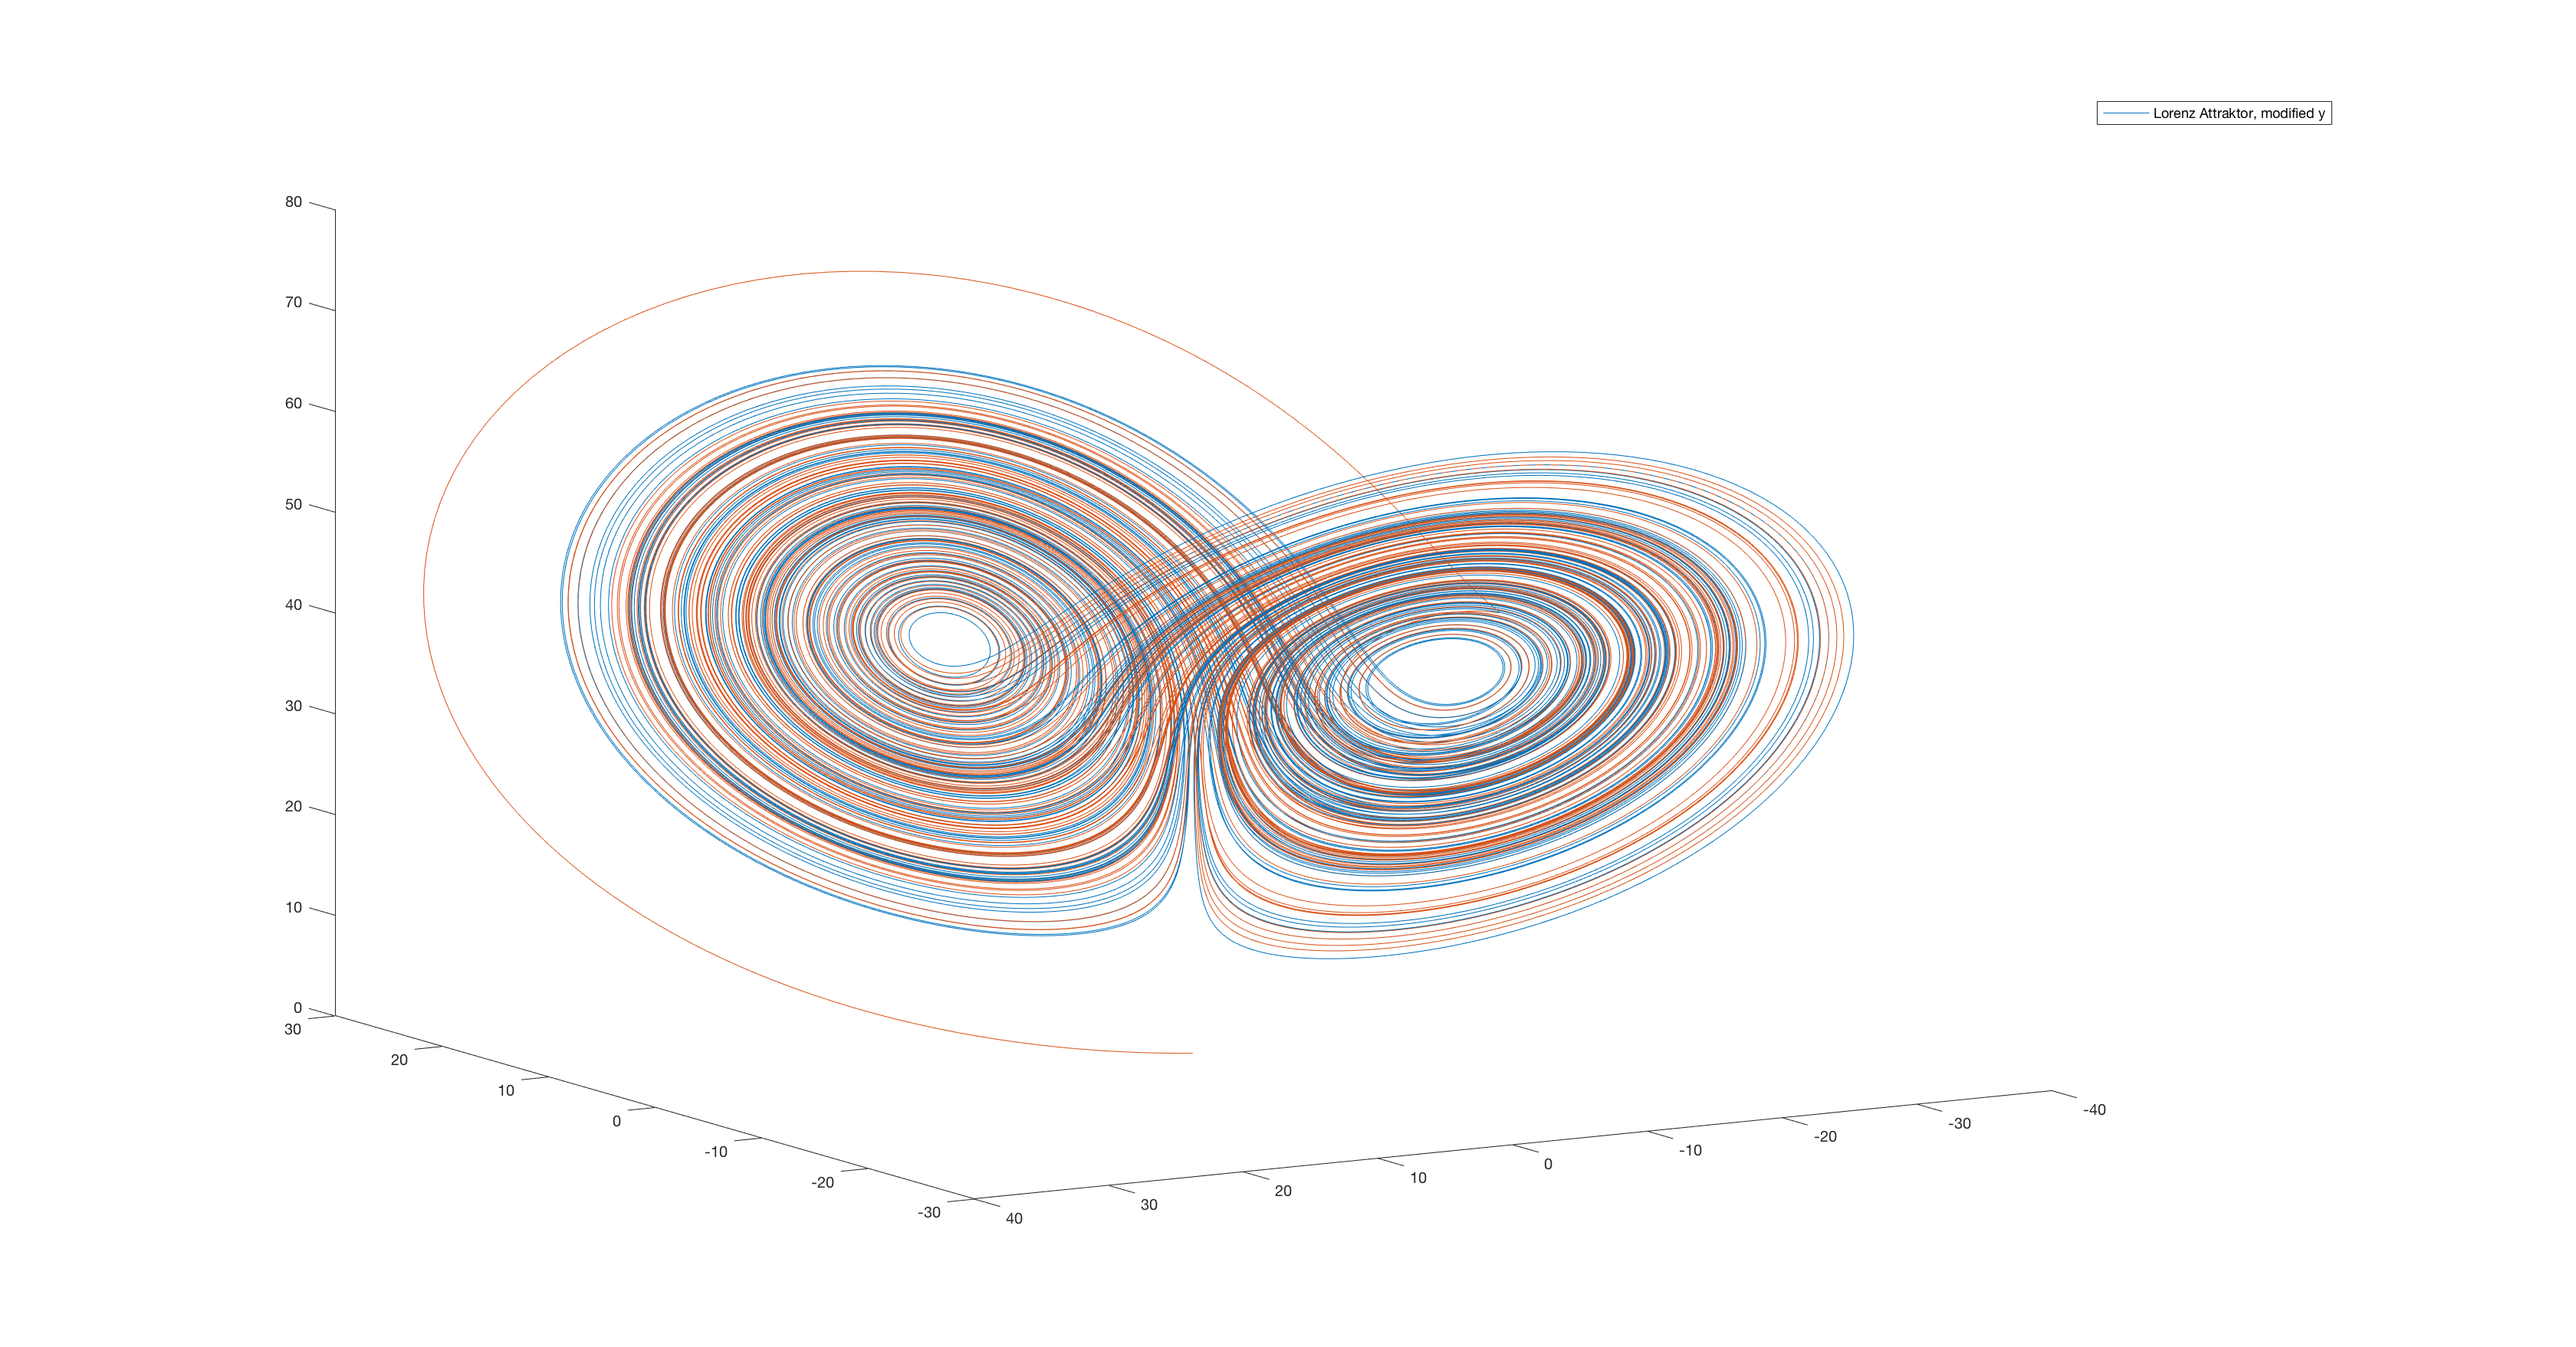
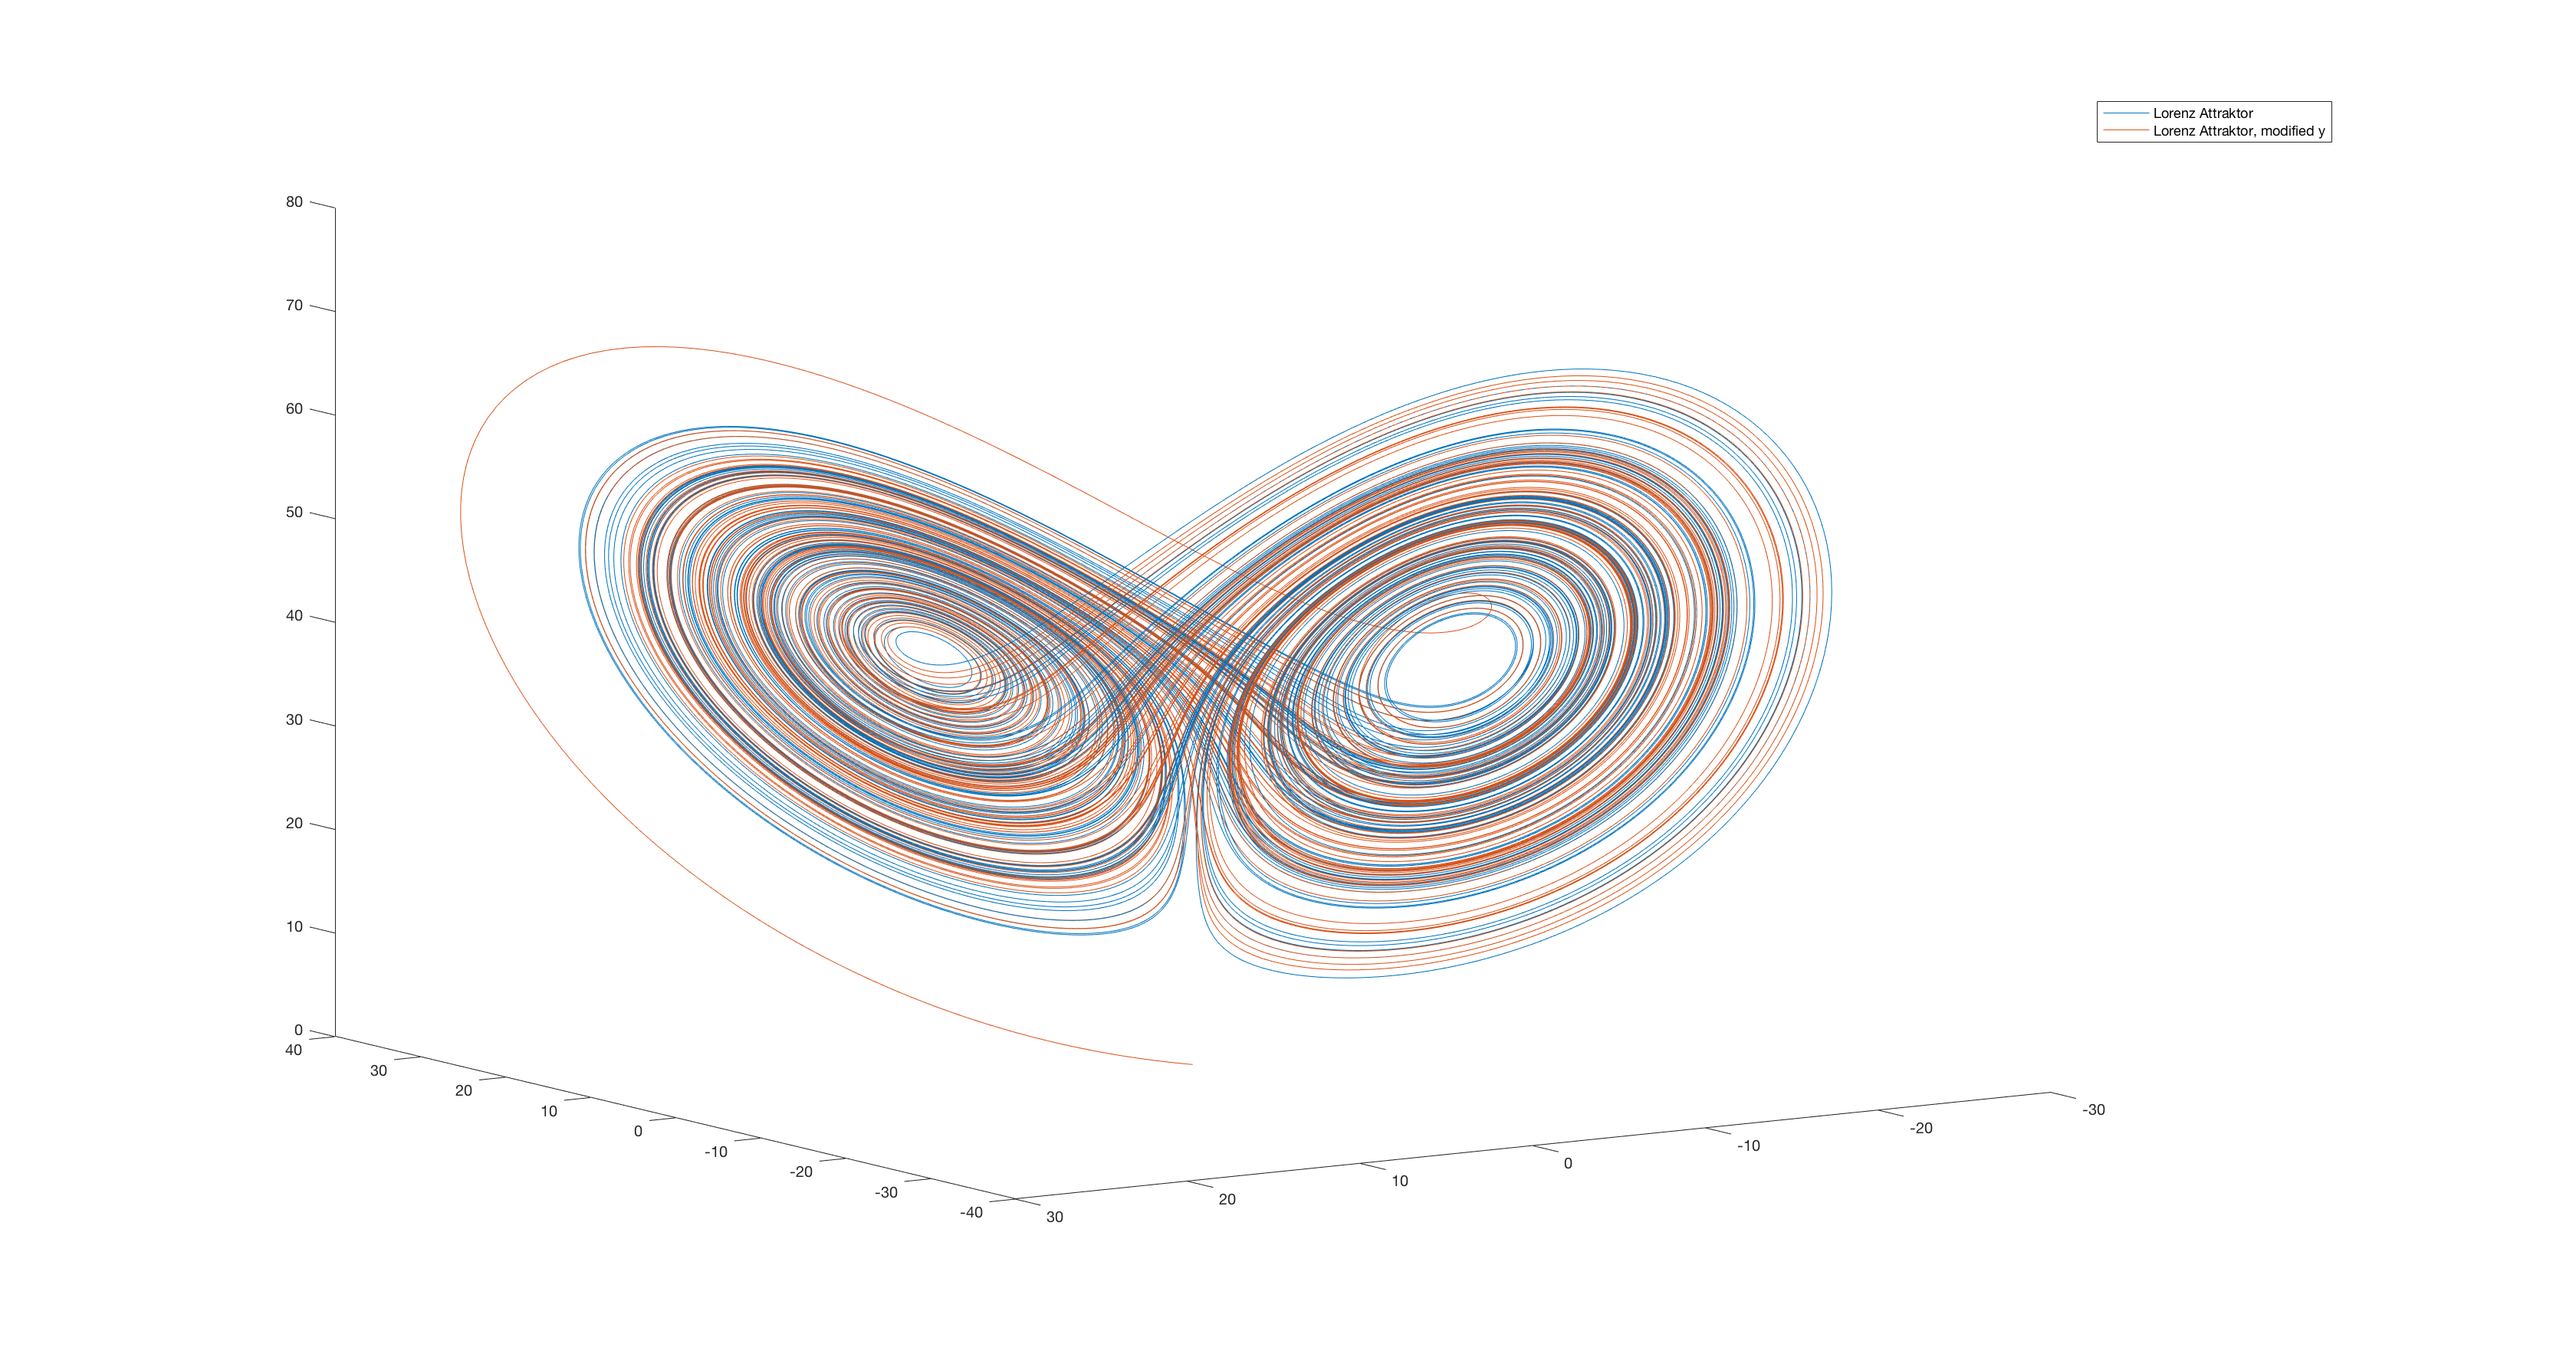
[MDP][A1] nearly close

diff --git a/MDP/Aufgabe1/lorenz.m b/MDP/Aufgabe1/lorenz.m
@@ -29,7 +29,7 @@ z1_values = result(:,4);
 figure();
 subplot(1,1,1);
 plot3(x_values,y_values,z_values,x1_values,y1_values,z1_values)
-legend('Lorenz Attraktor, modified y');
+legend('Lorenz Attraktor','Lorenz Attraktor, modified y');
 
 figure('name',strcat('h=0.002'));
 plot(t,x_values,t,x1_values)
